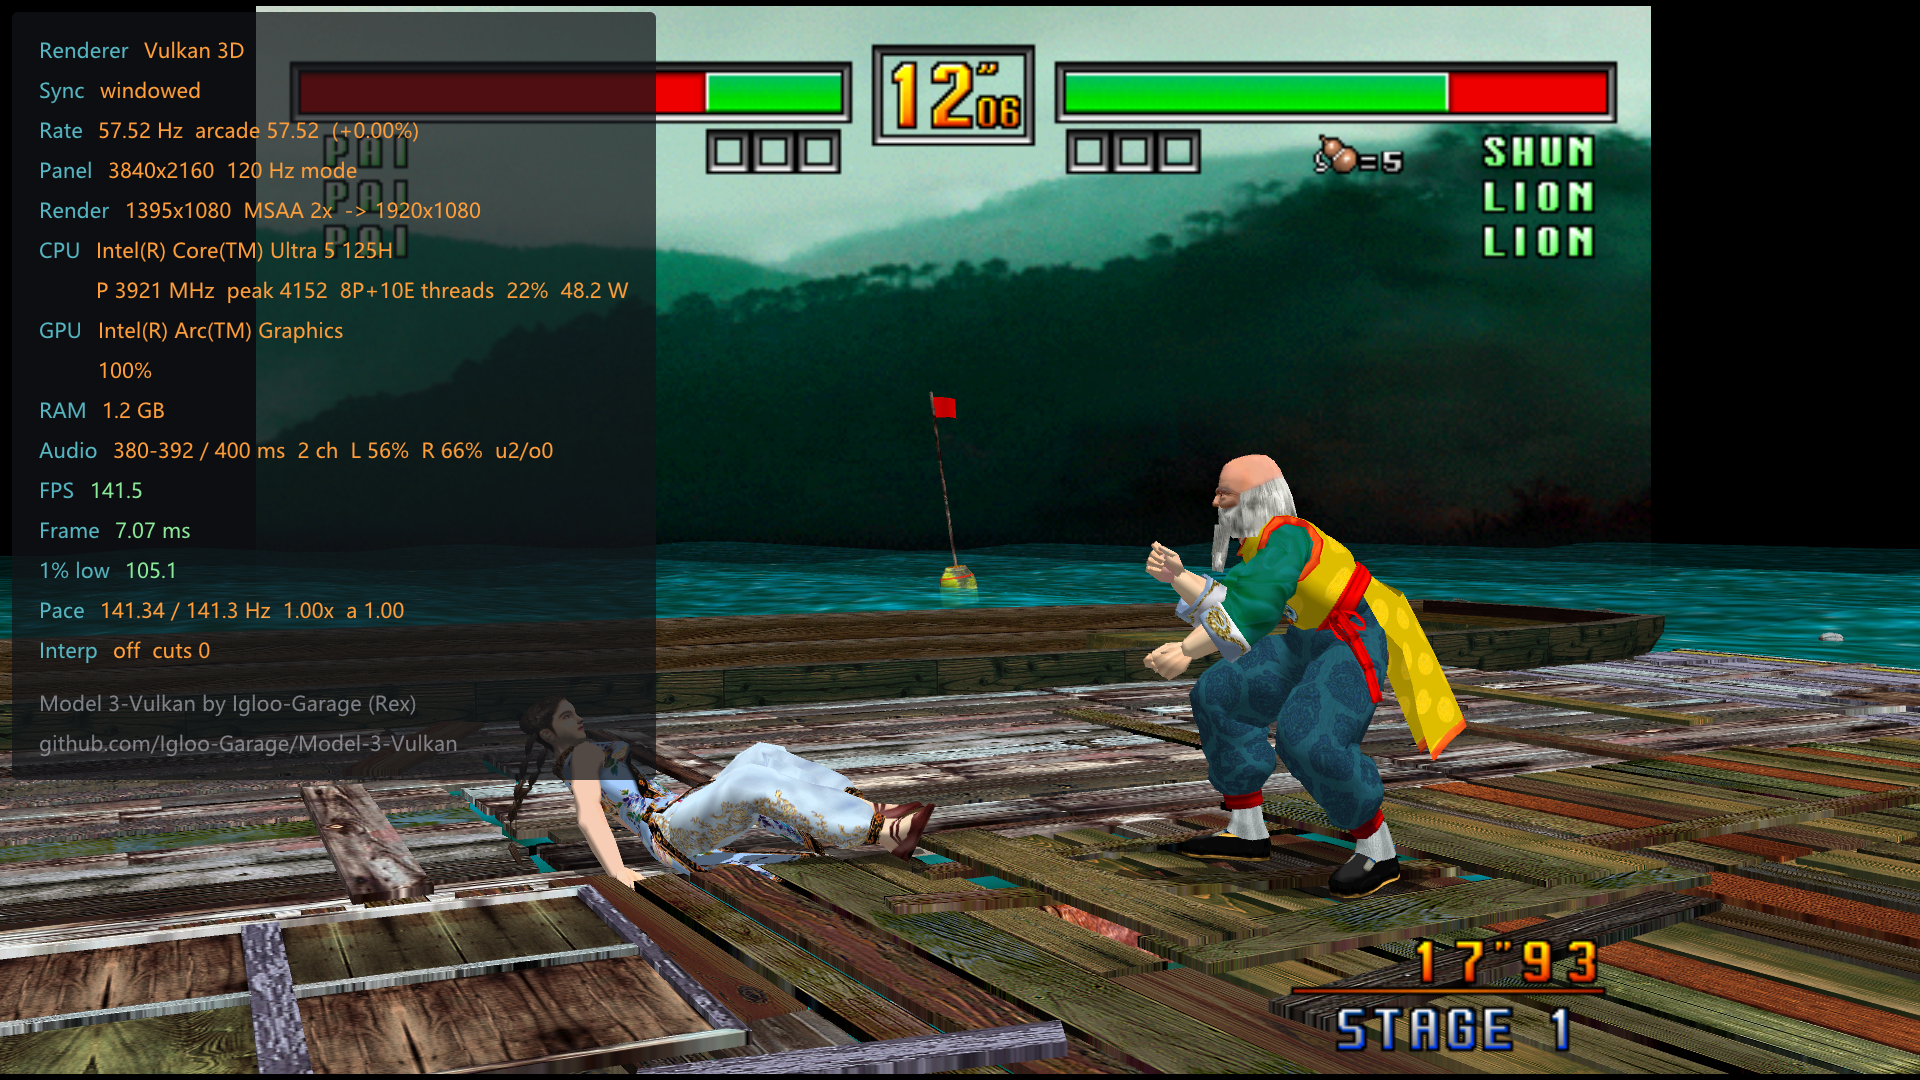
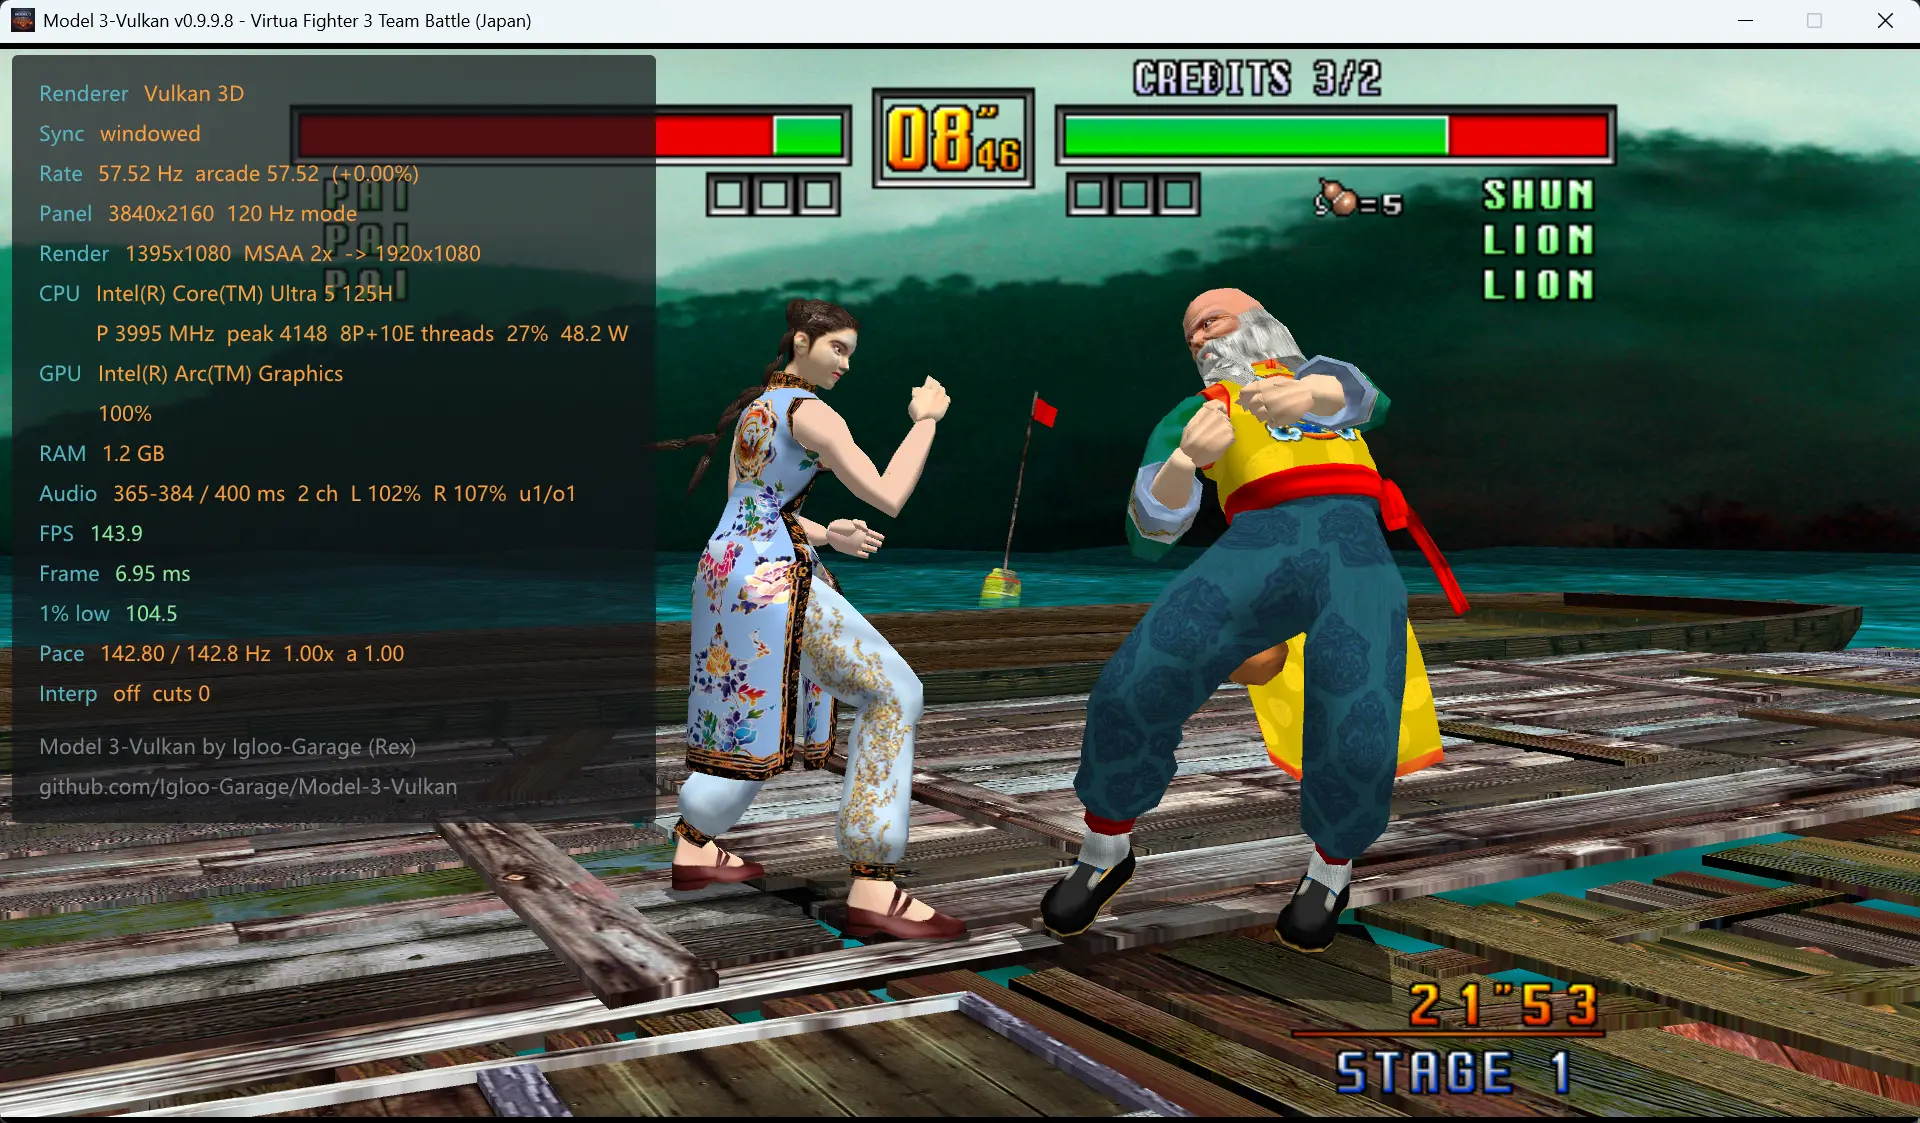
Use wide-background screenshots for 0.9.9.8
Dirt Devils now shows 218.6 FPS with a 133.0 1% low; VF3tb uses the user's own Intel Arc capture at 143.9 FPS.

diff --git a/RELEASE_NOTES.md b/RELEASE_NOTES.md
@@ -165,12 +165,12 @@ the build without them.
 
 ### What it looks like on an Intel iGPU
 
-Same save state (`vf3tb.zst1`), 1920×1080 output, 2× MSAA, frame pacing unlocked: **141.5 FPS
-(7.07 ms/frame)** on integrated Intel Arc graphics — about 2.5× the arcade's 57.52 Hz. Under the
-heavy 2480×1920 2× MSAA load used in the table above, the same scene went from 45.5 to 73.2 FPS
-(+60.9%).
+Same save state (`vf3tb.zst1`), 1920×1080 output, 2× MSAA, frame pacing unlocked: **143.9 FPS
+(6.95 ms/frame, 1 % low 104.5)** on integrated Intel Arc graphics — about 2.5× the arcade's
+57.52 Hz. Under the heavy 2480×1920 2× MSAA load used in the table above, the same scene went
+from 45.5 to 73.2 FPS (+60.9%).
 
-![VF3tb on Intel Arc at 1080p with unlocked frame pacing: 141.5 FPS, 7.07 ms per frame](https://raw.githubusercontent.com/Igloo-Garage/Model-3-Vulkan/master/Docs/images/v0.9.9.8/vf3tb-unlocked-intel-arc-1080p.webp)
+![VF3tb on Intel Arc at 1080p with unlocked frame pacing: 143.9 FPS, 6.95 ms per frame](https://raw.githubusercontent.com/Igloo-Garage/Model-3-Vulkan/master/Docs/images/v0.9.9.8/vf3tb-unlocked-intel-arc-1080p.webp)
 
 ---
 
@@ -204,10 +204,10 @@ The code cache is 64 MB, and `SM3D_PPC_JIT_VERIFY=1` re-verifies the invalidatio
 interpreter block by block (26.6 million blocks, 0 failures on the test matrix).
 
 Before the fix the same save was capped near 20 FPS by re-translation — 45–66 ms of simulation
-hand-off per frame, no matter how fast the GPU was. The card now renders it at **173.8 FPS
-(5.75 ms/frame)**, 2480×1920 with 2× MSAA and frame pacing unlocked.
+hand-off per frame, no matter how fast the GPU was. The card now renders it at **218.6 FPS
+(4.57 ms/frame, 1 % low 133.0)**, 2480×1920 with 2× MSAA and frame pacing unlocked.
 
-![Dirt Devils on RTX 5060 Ti at 2480×1920, 2× MSAA with unlocked frame pacing: 173.8 FPS, 5.75 ms per frame](https://raw.githubusercontent.com/Igloo-Garage/Model-3-Vulkan/master/Docs/images/v0.9.9.8/dirtdvls-unlocked-rtx5060ti.webp)
+![Dirt Devils on RTX 5060 Ti at 2480×1920, 2× MSAA with unlocked frame pacing: 218.6 FPS, 4.57 ms per frame](https://raw.githubusercontent.com/Igloo-Garage/Model-3-Vulkan/master/Docs/images/v0.9.9.8/dirtdvls-unlocked-rtx5060ti.webp)
 
 ---
 
@@ -323,8 +323,9 @@ The two controls now stay in step: choosing `1x (496 x 384)` sets the internal s
    覆盖到已翻译指令字节的写入才作废该页。仿真交接时间从 **45–66 ms/帧** 降到 **0.28–0.78 ms/帧**，
    存储触发的刷新从每帧约 2300 次降到 **0**。
 
-**实测截图（解锁帧率）**：RTX 5060 Ti 上《Dirt Devils》2480×1920 / 2× MSAA 为 **173.8 FPS**
-（5.75 ms/帧）；Intel Arc 核显上 `vf3tb` 1080p / 2× MSAA 为 **141.5 FPS**（7.07 ms/帧，约 2.5× 街机满速）。
+**实测截图（解锁帧率）**：RTX 5060 Ti 上《Dirt Devils》2480×1920 / 2× MSAA 为 **218.6 FPS**
+（4.57 ms/帧，1% low 133.0）；Intel Arc 核显上 `vf3tb` 1080p / 2× MSAA 为 **143.9 FPS**
+（6.95 ms/帧，1% low 104.5，约 2.5× 街机满速）。
 
 **其它：**
 
